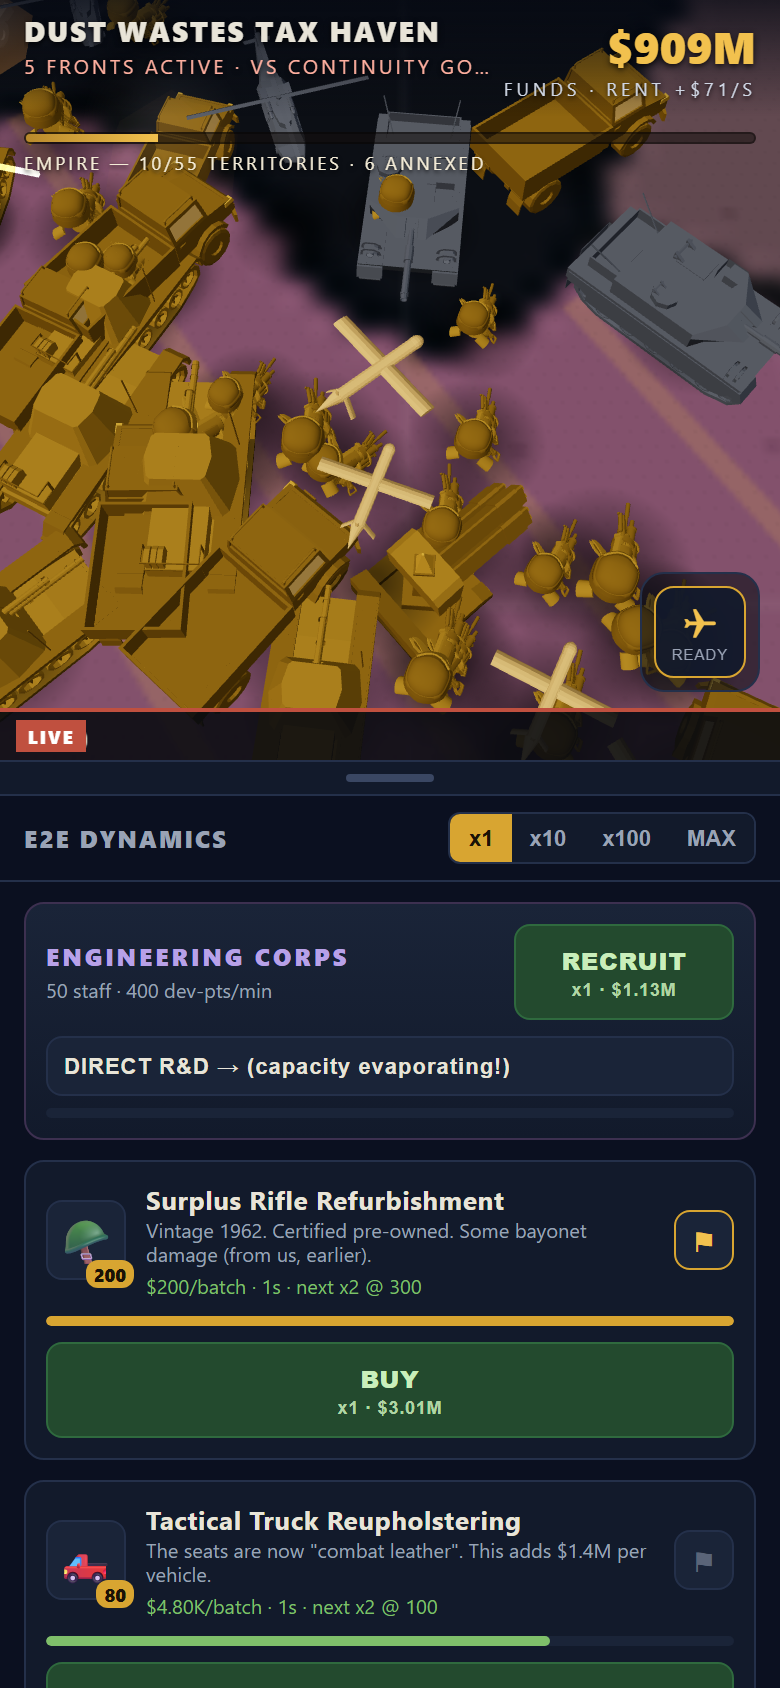
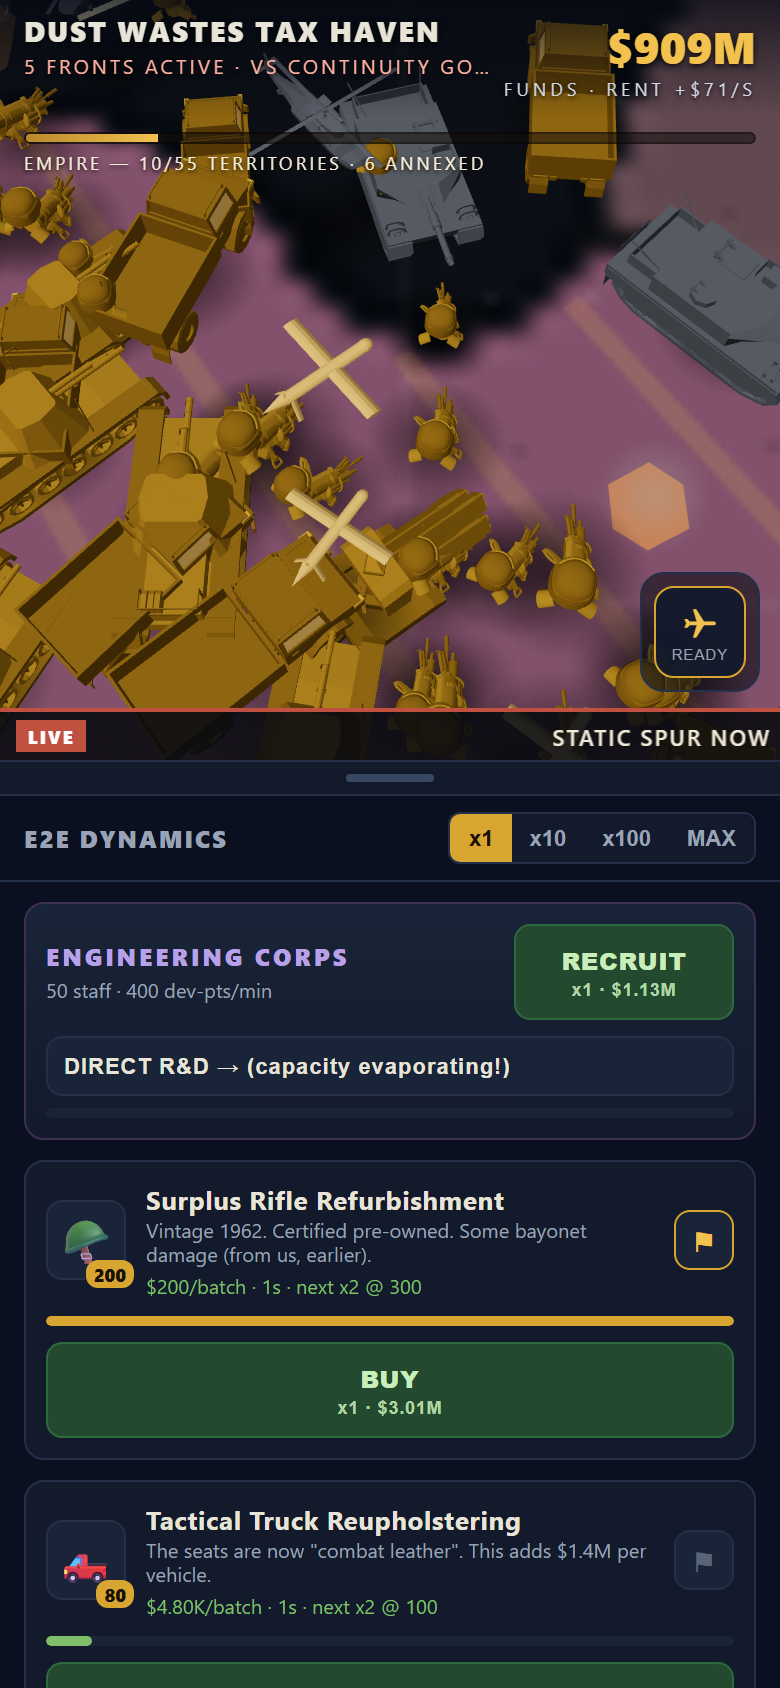
Round 5 SHIP IT punch list + wave drama: arrows strategic-only w/ drift, contact separation, enemy floor +30%, industry x1.5, red-alert HUD, arsenal pickets, wave camera cut
Claude-Session: https://claude.ai/code/session_01367r4cd1SEsCkmiFwoE8mz

Changed region(s): [[0.0, 0.0, 1.0, 0.4621], [0.1231, 0.955, 0.7077, 0.9858]]

diff --git a/src/render/boardview.ts b/src/render/boardview.ts
@@ -583,9 +583,15 @@ export class BoardView {
         m.rotation.y = Math.atan2(dx, dz) + ((i * 13) % 7 - 3) * 0.09;
         grp.add(m);
       }
+      // Friendly pickets reflect what the player actually builds.
+      const arsenal: string[] = [];
+      for (let li = 0; li < LINES.length; li++) {
+        if (gs.lines[li].army > 1 && FRIENDLY_MODELS[li]) arsenal.push(FRIENDLY_MODELS[li]);
+      }
+      if (arsenal.length === 0) arsenal.push('Soldier');
       const fr = clamp(Math.round(en * 0.7), 2, 6);
       for (let i = 0; i < fr; i++) {
-        const m = this.tinted(i === 0 ? 'LightTank' : 'Soldier', true);
+        const m = this.tinted(arsenal[i % arsenal.length], true);
         m.position.set((i % 3 - 1) * 3 + dx * 9, 0, Math.floor(i / 3) * 2.6 + dz * 9);
         m.rotation.y = Math.atan2(-dx, -dz);
         grp.add(m);
@@ -749,6 +755,13 @@ export class BoardView {
             this.effects.explode(this.tmp, 1.4 + Math.random());
           }
         }
+      } else if (e.type === 'waveStarted') {
+        // Cut the camera to the counteroffensive (unless the player is driving).
+        if (time - this.lastTouch > 4) {
+          const home = this.contestedCenter(gs);
+          this.focus.set(home.x, home.z);
+          this.dist = Math.min(this.dist, 34);
+        }
       } else if (e.type === 'nationFell') {
         const n = this.board.nations[e.nation];
         for (const tid of n.territories) {
@@ -801,10 +814,18 @@ export class BoardView {
         this.chevrons.set(tid, cone);
       }
       const ang = Math.atan2(w.x - hc.x, w.z - hc.z);
-      cone.position.set(w.x, 1.2, w.z);
+      // Strategic-view feature ONLY — inside battle frames it reads as a
+      // paper airplane parked among the units (round-5).
+      cone.visible = this.dist > 45;
+      // Drift along the heading: motion sells direction better than shape.
+      const drift = ((time * 1.4) % 1) * 3 - 1.5;
+      const dl2 = Math.hypot(w.x - hc.x, w.z - hc.z) || 1;
+      cone.position.set(
+        w.x + ((w.x - hc.x) / dl2) * drift, 1.2,
+        w.z + ((w.z - hc.z) / dl2) * drift
+      );
       cone.rotation.y = ang;
       const pulse = 0.85 + Math.sin(time * 3.2) * 0.25;
-      // Big enough to read from orbit — momentum is a strategic-view feature.
       cone.scale.setScalar(pulse * clamp(this.dist / 18, 1, 6.5));
       (cone.material as THREE.MeshBasicMaterial).opacity = 0.55 + Math.sin(time * 3.2) * 0.3;
     }
@@ -846,7 +867,7 @@ export class BoardView {
       // Defenders scale with the remaining garrison. The close frame must
       // NEVER be a one-sided parade: hold-phase keeps enemy remnants in shot,
       // and a FINAL WAVE floods the field.
-      let en = Math.round(Math.min(48, 5 * Math.pow(Math.max(hot.garrison, 2), 0.24)) * room);
+      let en = Math.round(Math.min(56, 6.5 * Math.pow(Math.max(hot.garrison, 2), 0.24)) * room);
       if (hot.garrison <= 0) en = Math.max(en, Math.round(6 * room) + 3);
       if (gs.wave) en = Math.max(en, Math.round(20 * room) + 6);
       for (let k = 0; k < en; k++) want.push({ friendly: false, line: k % ENEMY_MODELS.length });
@@ -973,8 +994,10 @@ export class BoardView {
       const d1 = k1 >= 0 && k1 < field.length ? field[k1] : -1;
       if (d1 < d0) { nx = -nx; ny = -ny; } // make (nx,ny) point into enemy ground
     }
+    // Minimum contact separation keeps opposing pieces from interpenetrating
+    // at the seam (round-5: soldier standing inside a tank hull).
     const sign = p.friendly ? -1 : 1;
-    const standoff = (4 + wrapRank * 2.6) * sign;
+    const standoff = (5.2 + wrapRank * 2.6) * sign;
     const jx = ((p.slot * 37) % 13 - 6) * 0.55;
     const gx = anchor.x + nx * standoff + jx;
     const gy = anchor.y + ny * standoff;

diff --git a/src/render/board/paint.ts b/src/render/board/paint.ts
@@ -241,10 +241,10 @@ export function paintBoard(canvas: HTMLCanvasElement, board: Board, st: PaintSta
       const bx = (t.cx + (r() - 0.5) * 30) * SX;
       const by = (t.cy + (r() - 0.5) * 30) * SY;
       if (labelAt(board, bx / SX, by / SY) !== t.id) continue;
-      for (let b = 0; b < 4 + Math.floor(r() * 3); b++) {
-        const w2 = (4 + r() * 6) * K, h2 = (4 + r() * 8) * K;
-        ctx.fillStyle = r() > 0.4 ? 'rgba(96,70,22,0.8)' : 'rgba(56,40,12,0.8)';
-        ctx.fillRect(bx + (r() - 0.5) * 20 * K, by + (r() - 0.5) * 14 * K, w2, h2);
+      for (let b = 0; b < 5 + Math.floor(r() * 3); b++) {
+        const w2 = (6 + r() * 9) * K, h2 = (6 + r() * 12) * K;
+        ctx.fillStyle = r() > 0.4 ? 'rgba(96,70,22,0.85)' : 'rgba(56,40,12,0.85)';
+        ctx.fillRect(bx + (r() - 0.5) * 26 * K, by + (r() - 0.5) * 18 * K, w2, h2);
       }
     }
   }

diff --git a/src/ui/styles.css b/src/ui/styles.css
@@ -99,6 +99,13 @@ body {
   text-shadow: 0 1px 2px rgba(0,0,0,0.9);
 }
 
+#war-hud.red-alert {
+  background: linear-gradient(to bottom, rgba(90, 16, 12, 0.85), transparent);
+  animation: red-pulse 1.2s infinite alternate;
+}
+#front-fill.red-alert { background: linear-gradient(to right, #a03428, #ff6a4e); }
+@keyframes red-pulse { from { filter: brightness(1); } to { filter: brightness(1.35); } }
+
 #chyron {
   position: absolute; left: 0; right: 0; bottom: 0;
   background: rgba(8, 10, 16, 0.88);

diff --git a/src/ui/ui.ts b/src/ui/ui.ts
@@ -361,6 +361,9 @@ export class UI {
       this.advEl.textContent = info.sub;
       this.frontFill.style.width = `${(info.pct * 100).toFixed(1)}%`;
       this.frontLabel.textContent = info.label;
+      // Red alert while a final counteroffensive is inbound.
+      document.getElementById('war-hud')?.classList.toggle('red-alert', !!gs.wave);
+      document.getElementById('front-fill')?.classList.toggle('red-alert', !!gs.wave);
     }
     for (let i = 0; i < LINES.length; i++) {
       const ls = gs.lines[i];